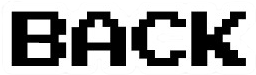
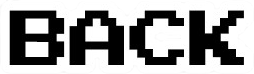
fix label의 크기를 조정하여 클릭 인식 범위가 보이는대로 작동하도록 함

Changed region(s): [[0.0276, 0.1351, 0.9646, 0.8919]]

diff --git a/main.html b/main.html
@@ -17,27 +17,42 @@
         <h1>This is title</h1>
         <div class="button-div">
             <button class="main-button" id="game-start" onclick="showPage('game', 'main')"></button>
-            <label for="game-start" class="button-label" id="start-label">
-                <img src="./img/button/game-start.png" alt="game start" class="button-image">
+            <label for="game-start" class="main-button-label" id="start-label">
+                <div class="button-box">
+                    <img src="./img/button/game-start.png" alt="game start">
+                    <img src="./img/button/game-start-hover.png" alt="game start">
+                </div>
             </label>
             <button class="main-button" id="settings" onclick="showPage('setting', 'main')"></button>
-            <label for="settings" class="button-label" id="settings-label">
-                <img src="./img/button/settings.png" alt="game start" class="button-image">
+            <label for="settings" class="sub-button-label" id="settings-label">
+                <div class="button-box">
+                    <img src="./img/button/settings.png" alt="settings">
+                    <img src="./img/button/settings-hover.png" alt="settings">
+                </div>
             </label>
             <button class="main-button" id="achievements" onclick="showPage('chellenge', 'main'); load_chellenge();"></button>
-            <label for="achievements" class="button-label" id="achievements-label">
-                <img src="./img/button/achievements.png" alt="game start" class="button-image">
+            <label for="achievements" class="sub-button-label" id="achievements-label">
+                <div class="button-box">
+                    <img src="./img/button/achievements.png" alt="achievements">
+                    <img src="./img/button/achievements-hover.png" alt="achievements">
+                </div>
             </label>
             <button class="main-button" id="highscores"></button>
-            <label for="highscores" class="button-label" id="highscores-label">
-                <img src="./img/button/highscores.png" alt="game start" class="button-image">
+            <label for="highscores" class="sub-button-label" id="highscores-label">
+                <div class="button-box">
+                    <img src="./img/button/highscores.png" alt="highscores">
+                    <img src="./img/button/highscores-hover.png" alt="highscores">
+                </div>
             </label>
         </div>
     </div>
     <div class="page" id="setting" style="display: none;">
         <button onclick="showPage('main', 'setting')" id="back-button"></button>
         <label for="back-button">
-            <img src="./img/button/back.png" alt="back">
+            <div class="button-box">
+                <img src="./img/button/back.png" alt="back">
+                <img src="./img/button/back-hover.png" alt="back">
+            </div>
         </label>
         <h1>Setting</h1>
         <!-- 
@@ -67,13 +82,25 @@
         </div>
     </div>
     <div class="page" id="chellenge">
-        <button onclick="showPage('main', 'chellenge')">Back</button>
+        <button onclick="showPage('main', 'chellenge')" id="challenge-back-button">Back</button>
+        <label for="challenge-back-button">
+            <div class="button-box">
+                <img src="./img/button/back.png" alt="back">
+                <img src="./img/button/back-hover.png" alt="back">
+            </div>
+        </label>
         <h1>Achievements</h1>
         <div id="cards"></div>
     </div>
 
     <div class="page" id="game" style="display: none;">
-        <button onclick="showPage('main', 'game')">Back</button>
+        <button onclick="showPage('main', 'game')" id="game-back-button">Back</button>
+        <label for="game-back-button">
+            <div class="button-box">
+                <img src="./img/button/back.png" alt="back">
+                <img src="./img/button/back-hover.png" alt="back">
+            </div>
+        </label>
         <h1>Game</h1>
         <!--
             - 24/05/03 gmae화면 div 추

diff --git a/style/button.css b/style/button.css
@@ -4,28 +4,46 @@
     margin-top: 300px;
 }
 
-.main-button {
+/*모든 기본 버튼은 보이지 않게 합니다*/
+button {
     display: none;
 }
 
-#start-label {
-    display: block;
+.main-button-label {
+    display: table;
     justify-content: center;
     align-items: center;
     height: 100px;
-    margin: 0 auto;
-}
-
-#achievements-label, #settings-label, #highscores-label {
-    display: block;
-    justify-content: center;
-    align-items: center;
-    height: 60px;
     margin: 30px auto;
 }
 
-.button-image {
-    display: block;
-    height: 100%;
+.sub-button-label {
+    display: table;
+    margin: 20px auto;
+}
+
+.sub-button-label div img {
+    justify-content: center;
+    align-items: center;
+    height: 60px;
+}
+
+.button-box {
     margin: 0 auto;
+}
+
+.button-box img:first-child {
+    display: block;
+}
+
+.button-box img:last-child {
+    display: none;
+}
+
+.button-box:hover img:first-child {
+    display: none;
+}
+
+.button-box:hover img:last-child {
+    display: block;
 }
